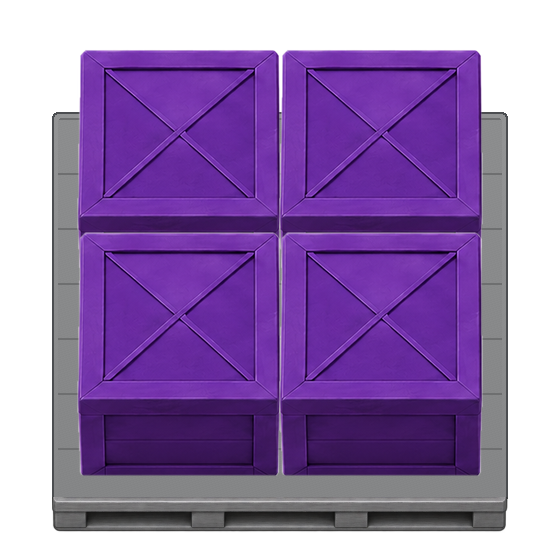
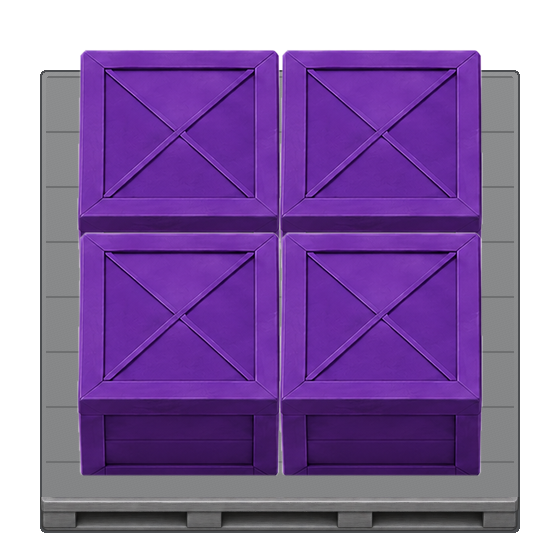
v547
Replace all 16 experimental pallet sprites with the supplied v2 artwork
Preload and decode normal and on-target pallet artwork before Level Maker test play
Preload matching pallet artwork when board colours change during pallet gameplay
Add v547 pallet asset revision to prevent stale browser-cached artwork
Refresh offline pallet assets and release metadata to v547

Changed region(s): [[0.0607, 0.1214, 0.9411, 0.9714], [0.4857, 0.1214, 0.5161, 0.2125]]

diff --git a/boxxy.js b/boxxy.js
@@ -18,6 +18,7 @@
 /* BOXXY v474: mobile gold badge layout, Static Noise pack artwork, and release metadata. */
 /* BOXXY v473: steady mobile awards header and compact, non-overlapping gold count. */
 /* BOXXY v469: optional original v451 fixed Zen arrows, retaining the modern keypad and reversible Restart. */
+/* BOXXY v547: replace pallet artwork and preload/decode active pallet states before Level Maker test play. */
 /* BOXXY v546: experimental 2×2 pallet blocks in Level Maker testing, with unified movement, targets and artwork. */
 /* BOXXY v468: public Hall of Fame shows linked-player avatars in responsive cards. */
 /* BOXXY v467: Restart/Revert shared by every gameplay control and keyboard R. */
@@ -348,7 +349,7 @@
   "use strict";
   const FLOOR_CHAR = "£";
   const GOAL_CHAR = "§";
-  const ASSET_REVISION = "546";
+  const ASSET_REVISION = "547";
   const CELL_CHARS = new Set([FLOOR_CHAR, GOAL_CHAR]);
 
   function isCell(value) {
@@ -7381,7 +7382,7 @@
   }
 
   function palletAssetPath(colour = "default-yellow") {
-    return window.BoxxyPalletBlocks?.spritePath?.(colour) || `assets/board/pallets/boxxy-pallet-2x2-${colour}.png?v=546`;
+    return window.BoxxyPalletBlocks?.spritePath?.(colour) || `assets/board/pallets/boxxy-pallet-2x2-${colour}.png?v=547`;
   }
 
   function cssPalletAsset(colour = "default-yellow") {
@@ -9407,11 +9408,29 @@
 
   function standardBoardStyleAssetPaths(style = standardBoardStyle()) {
     const boxColour = style.box === "yellow" ? "default-yellow" : style.box;
-    return [
+    const paths = [
       boardAssetPath("box", boxColour),
       boardAssetPath("goal", style.target),
       boardAssetPath("box", style.target)
     ];
+    if (pallets.length) {
+      paths.push(palletAssetPath(boxColour), palletAssetPath(style.target));
+    }
+    return paths;
+  }
+
+  async function prepareMakerTestAssets(layoutRows) {
+    const rows = Array.isArray(layoutRows) ? layoutRows.map(row => String(row)) : [];
+    const hasPallet = rows.some(row => [...row].some(char => window.BoxxyPalletBlocks?.isCell?.(char)));
+    if (!hasPallet) return { ok: true, pallet: false, results: [] };
+    const style = standardBoardStyle();
+    const boxColour = style.box === "yellow" ? "default-yellow" : style.box;
+    const paths = [...new Set([
+      palletAssetPath(boxColour),
+      palletAssetPath(style.target)
+    ])];
+    const results = await Promise.all(paths.map(ensureBoardAsset));
+    return { ok: results.every(result => result?.ok), pallet: true, results };
   }
 
   function ensureStandardBoardStyleAssets(style = standardBoardStyle()) {
@@ -14212,6 +14231,7 @@
   }
   window.BoxxyGameAPI = {
     playHistoryLevel,
+    prepareMakerTestAssets(layoutRows) { return prepareMakerTestAssets(layoutRows); },
     startMakerTest(layoutRows, attachedSolution = "", options = {}) { return loadMakerTest(layoutRows, attachedSolution, options); },
     exitMakerTest() { exitMakerTest(); },
     restartMakerTest() { restartMakerTest(); },
@@ -18684,10 +18704,15 @@
     if (event.target === solverModal) closeSolverDialog();
   });
 
-  testBtn.addEventListener("click", () => {
+  testBtn.addEventListener("click", async () => {
     const validation = validate();
     if (!validation.ok) {
       setStatus(validation.error, "error");
+      return;
+    }
+    const prepared = await window.BoxxyGameAPI?.prepareMakerTestAssets?.(validation.rows);
+    if (prepared && prepared.ok === false) {
+      setStatus("Pallet artwork could not be prepared. Please try again.", "error");
       return;
     }
     const result = window.BoxxyGameAPI?.startMakerTest?.(validation.rows, solutionMatchesCurrentBoard() ? currentSolution : "", {
@@ -18828,7 +18853,7 @@
     setStatus(`Editing “${String(event?.detail?.name || saveNameInput?.value || "pack puzzle")}”. Pack-only name and author changes remain in the Pack Builder.`, "success");
   });
 
-  window.addEventListener("boxxy-pack-builder-play-level", event => {
+  window.addEventListener("boxxy-pack-builder-play-level", async event => {
     openMaker();
     if (!loadPackBuilderRequest(event?.detail)) {
       setStatus("That pack puzzle could not be prepared for play.", "error");
@@ -18840,6 +18865,11 @@
       return;
     }
     const displayName = String(event?.detail?.name || saveNameInput?.value || "Pack Puzzle").trim() || "Pack Puzzle";
+    const prepared = await window.BoxxyGameAPI?.prepareMakerTestAssets?.(validation.rows);
+    if (prepared && prepared.ok === false) {
+      setStatus("Pallet artwork could not be prepared. Please try again.", "error");
+      return;
+    }
     const result = window.BoxxyGameAPI?.startMakerTest?.(
       validation.rows,
       solutionMatchesCurrentBoard() ? currentSolution : String(event?.detail?.solution || ""),

diff --git a/styles.css b/styles.css
@@ -1,3 +1,4 @@
+/* BOXXY v547 — refreshed 2×2 pallet artwork; preserve existing in-game sizing. */
 /* BOXXY v481: compact/wide legacy Zen arrows with a three-position selector. */
 /* BOXXY v480: unnumbered gold-medal replay entries. */
 /* BOXXY v479: earned-only trophy cabinet and no count summary. */
@@ -8917,13 +8918,13 @@ html.touch-ui .compact-settings-only{display:grid!important}
   inset:0;
   width:100%;
   height:100%;
-  background-image:var(--boxxy-standard-pallet-sprite,url("assets/board/pallets/boxxy-pallet-2x2-default-yellow.png?v=546"));
+  background-image:var(--boxxy-standard-pallet-sprite,url("assets/board/pallets/boxxy-pallet-2x2-default-yellow.png?v=547"));
   background-position:center;
   background-size:100% 100%;
   background-repeat:no-repeat;
 }
 .piece.pallet.on-goal .board-art-pallet{
-  background-image:var(--boxxy-standard-target-pallet-sprite,url("assets/board/pallets/boxxy-pallet-2x2-red.png?v=546"));
+  background-image:var(--boxxy-standard-target-pallet-sprite,url("assets/board/pallets/boxxy-pallet-2x2-red.png?v=547"));
 }
 .piece.pallet.pushing.board-step{animation:palletPieceMove var(--boxxy-motion-duration,.105s) cubic-bezier(.2,.82,.32,1) both}
 @keyframes palletPieceMove{
@@ -8932,7 +8933,7 @@ html.touch-ui .compact-settings-only{display:grid!important}
 }
 
 .maker-tool-icon.pallet{
-  background:#f4eadb center/92% 92% no-repeat url("assets/board/pallets/boxxy-pallet-2x2-default-yellow.png?v=546");
+  background:#f4eadb center/92% 92% no-repeat url("assets/board/pallets/boxxy-pallet-2x2-default-yellow.png?v=547");
 }
 .maker-cell.type-pallet,.maker-cell.type-palletgoal{background:#f1e7d7}
 .maker-cell.type-palletgoal::before{

diff --git a/index.html b/index.html
@@ -163,7 +163,7 @@
     document.documentElement.classList.add("ios-standalone");
   }
 </script>
-<link rel="stylesheet" href="styles.css?v=546">
+<link rel="stylesheet" href="styles.css?v=547">
 <link rel="stylesheet" href="how-to-play.css?v=538">
 <link rel="stylesheet" href="rainbow-intro.css?v=502">
 <link rel="preload" as="image" href="assets/board/boxes/box-default-yellow.png?v=226">
@@ -1713,7 +1713,7 @@
 <script src="static-noise.js?v=476"></script>
 <script src="four-leaf-clover.js?v=482"></script>
 <script src="the-staircase.js?v=506"></script>
-<script src="boxxy.js?v=546"></script>
+<script src="boxxy.js?v=547"></script>
 <script src="attempt-history.js?v=492"></script>
 <script src="attempt-history-ui.js?v=536"></script>
 <script src="account.js?v=536"></script>

diff --git a/service-worker.js b/service-worker.js
@@ -1,3 +1,4 @@
+/* BOXXY v547: refresh 2×2 pallet artwork and preload-aware gameplay/editor assets. */
 /* BOXXY v546: cache experimental 2×2 pallet artwork and refreshed editor/gameplay assets. */
 /* BOXXY v545: refresh the cached app script for reduced Fluffball message weighting. */
 /* BOXXY v544: refresh the cached app script for announcement Style preload and rolling-message additions. */

diff --git a/assets/data/release.js b/assets/data/release.js
@@ -2,7 +2,7 @@
 (() => {
   "use strict";
   globalThis.BOXXY_RELEASE = Object.freeze({
-    version: "546",
+    version: "547",
     lastUpdated: "2026-11-08"
   });
 })();
